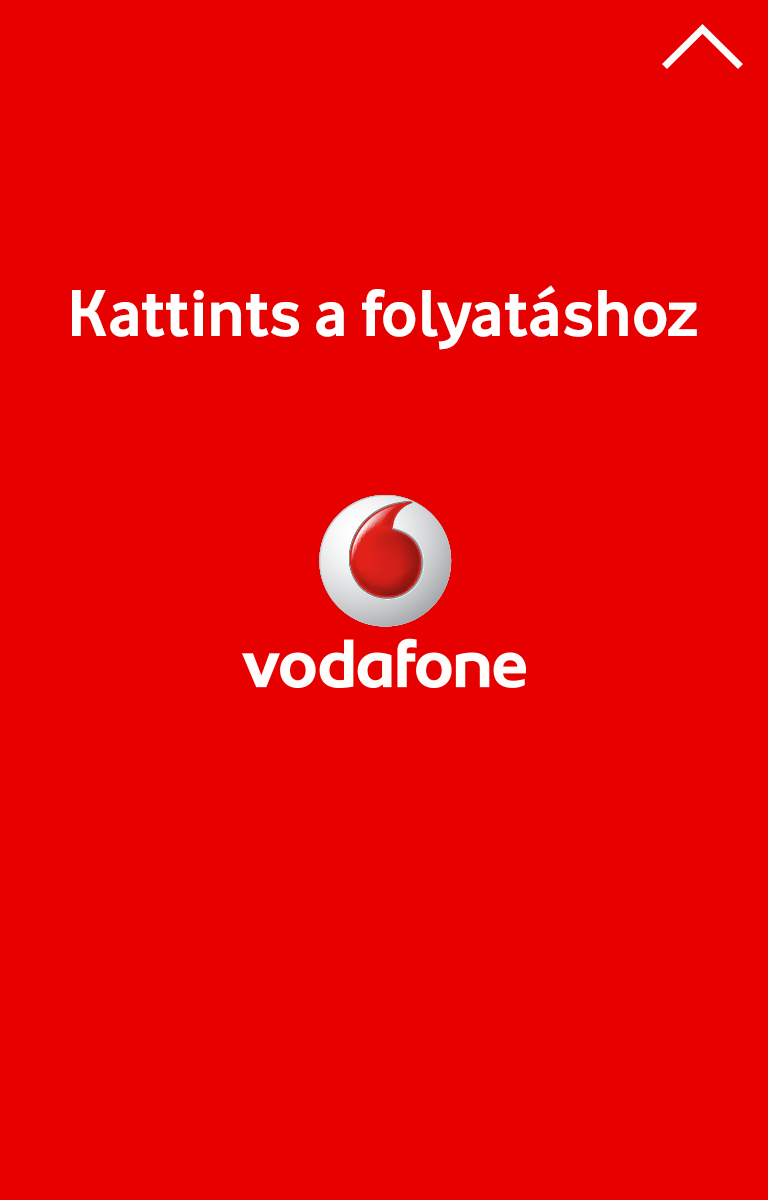
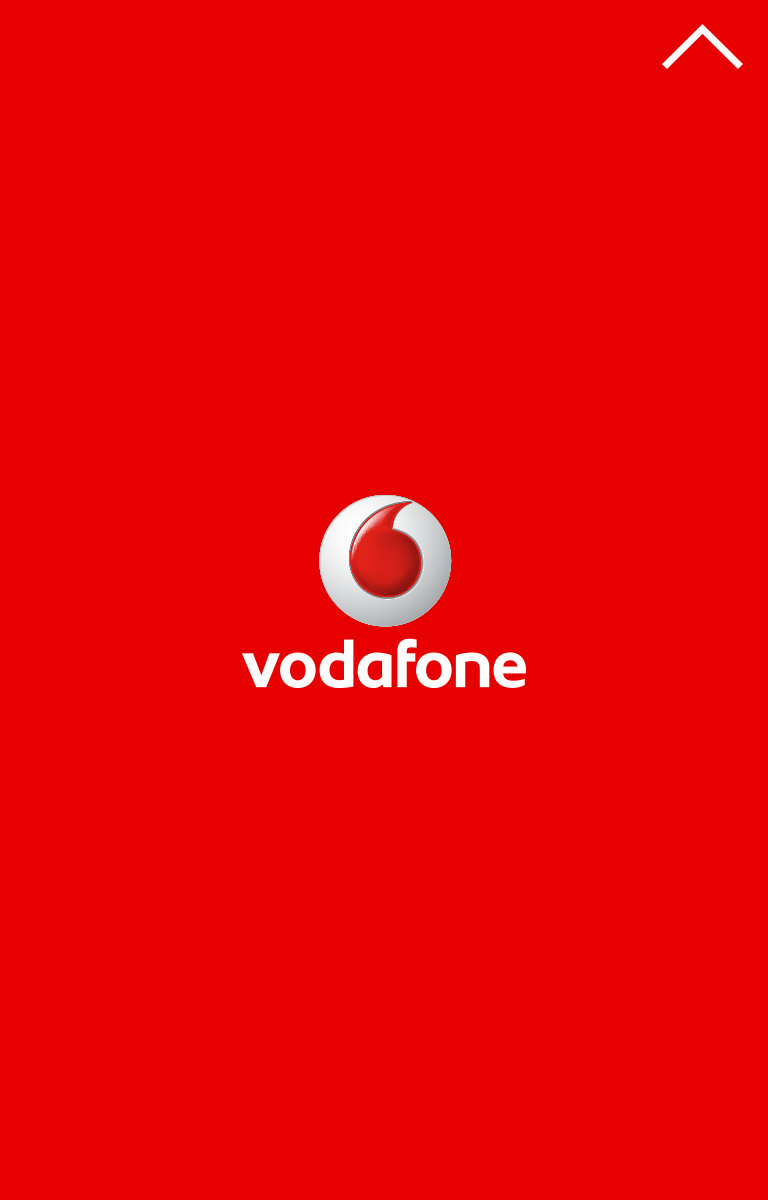
working on standalone, but these are production ready

Changed region(s): [[0.0938, 0.2158, 0.9062, 0.3083]]

diff --git a/insurance/scripts/richMedia/exp_build.2.js b/insurance/scripts/richMedia/exp_build.2.js
@@ -4,9 +4,13 @@
 
 var Exp_Shell = function(){
 
-	var expandable = isStandalone;
-	console.log("expandable:" + expandable);
 
+
+	var ADMAXIM_BANNER_W = 320;
+	var ADMAXIM_BANNER_H = 50;
+
+	var ADMAXIM_RICHMEDIA_W = 320;
+	var ADMAXIM_RICHMEDIA_H = 500;
 
 	var adBannerW = (ADMAXIM_BannerWidth != undefined) ? ADMAXIM_BannerWidth : ADMAXIM_BANNER_W;
 	var adBannerH = (ADMAXIM_BannerHeight != undefined) ? ADMAXIM_BannerHeight : ADMAXIM_BANNER_H;
@@ -15,10 +19,21 @@ var Exp_Shell = function(){
 	var adExpandH = ADMAXIM_RICHMEDIA_H;
 
 
-	var clickUrl = (ADMAXIM_clickUrl != undefined) ? ADMAXIM_clickUrl  : " ";
-	var clickId = (ADMAXIM_clickId != undefined) ? ADMAXIM_clickId  : " ";
+	var clickUrl = (ADMAXIM_clickUrl != undefined) ? ADMAXIM_clickUrl  : "";
+	var clickId = (ADMAXIM_clickId != undefined) ? ADMAXIM_clickId  : "";
 
 	var appId = (ADMAXIM_appId != undefined) ? ADMAXIM_appId : "";
+
+
+	var standalone = getUrlVar('standalone');
+
+	var expanded = (typeof standalone_from_url != "undefined" && standalone_from_url === "yes" || typeof standalone != "undefined" && standalone === "yes") ? true : false;
+
+
+	function getUrlVar(key){
+		var result = new RegExp(key + "=([^&]*)", "i").exec(window.location.search);
+		return (result && unescape(result[1]) || undefined);
+	}	
 
 
 	//var assetRoot = (ADMAXIM_assetRoot != undefined) ? ADMAXIM_assetRoot : undefined;
@@ -32,7 +47,7 @@ var Exp_Shell = function(){
 	}
 	console.log("assetUrl:" + assetUrl);
 
-	var iframeUrl = assetUrl + "scripts/richMedia/expanded.html?clickid=" + clickId + "&appid=" + appId;
+	var iframeUrl = assetUrl + "scripts/richMedia/expanded.html?clickid=" + clickId + "&appid=" + appId + "&standalone=" + standalone;
 
 
 	var adBanner = (ADMAXIM_adBanner != undefined) ? ADMAXIM_adBanner : "scripts/richMedia/media/vodafoneinsurancebanner.gif";
@@ -44,7 +59,7 @@ var Exp_Shell = function(){
 	var adLoaded = false;
 
 	var bannerStr = "";
-	if (!expandable) bannerStr += "<img id=\"adBanner\" onclick='exp_shell.bannerClick()' src=\""+adBanner+"\" style=\"display:block; width:"+adBannerW+"px; height:"+adBannerH+"px; \" \/>";
+	if (!expanded) bannerStr += "<img id=\"adBanner\" onclick='exp_shell.bannerClick()' src=\""+adBanner+"\" style=\"display:block; width:"+adBannerW+"px; height:"+adBannerH+"px; \" \/>";
 	bannerStr += "<img id=\"AdMaximTrack\" style=\"display:block; margin:-1px 0 0 -1px; padding:0; width:1px; height:1px\" \/>";
 	var iframeStr = "<iframe id='adFrame' scrolling='no' src='' width='0' height='0' style='border:none; position:absolute; top:0; left:0;'></iframe>";
 	var expandedExp;
@@ -74,7 +89,7 @@ var Exp_Shell = function(){
 
 
 		
-		if (!expandable){
+		if (!expanded){
 			var closeBtn = document.createElement('div');
 			closeBtn.setAttribute('onclick', 'exp_shell.closeBtnClick()');
 			closeBtn.style.width = adBannerH + "px";

diff --git a/simonly/scripts/richMedia/exp_build.2.js b/simonly/scripts/richMedia/exp_build.2.js
@@ -4,9 +4,13 @@
 
 var Exp_Shell = function(){
 
-	var expandable = isStandalone;
-	console.log("expandable:" + expandable);
 
+
+	var ADMAXIM_BANNER_W = 320;
+	var ADMAXIM_BANNER_H = 50;
+
+	var ADMAXIM_RICHMEDIA_W = 320;
+	var ADMAXIM_RICHMEDIA_H = 500;
 
 	var adBannerW = (ADMAXIM_BannerWidth != undefined) ? ADMAXIM_BannerWidth : ADMAXIM_BANNER_W;
 	var adBannerH = (ADMAXIM_BannerHeight != undefined) ? ADMAXIM_BannerHeight : ADMAXIM_BANNER_H;
@@ -15,10 +19,21 @@ var Exp_Shell = function(){
 	var adExpandH = ADMAXIM_RICHMEDIA_H;
 
 
-	var clickUrl = (ADMAXIM_clickUrl != undefined) ? ADMAXIM_clickUrl  : " ";
-	var clickId = (ADMAXIM_clickId != undefined) ? ADMAXIM_clickId  : " ";
+	var clickUrl = (ADMAXIM_clickUrl != undefined) ? ADMAXIM_clickUrl  : "";
+	var clickId = (ADMAXIM_clickId != undefined) ? ADMAXIM_clickId  : "";
 
 	var appId = (ADMAXIM_appId != undefined) ? ADMAXIM_appId : "";
+
+
+	var standalone = getUrlVar('standalone');
+
+	var expanded = (typeof standalone_from_url != "undefined" && standalone_from_url === "yes" || typeof standalone != "undefined" && standalone === "yes") ? true : false;
+
+
+	function getUrlVar(key){
+		var result = new RegExp(key + "=([^&]*)", "i").exec(window.location.search);
+		return (result && unescape(result[1]) || undefined);
+	}	
 
 
 	//var assetRoot = (ADMAXIM_assetRoot != undefined) ? ADMAXIM_assetRoot : undefined;
@@ -32,7 +47,7 @@ var Exp_Shell = function(){
 	}
 	console.log("assetUrl:" + assetUrl);
 
-	var iframeUrl = assetUrl + "scripts/richMedia/expanded.html?clickid=" + clickId + "&appid=" + appId;
+	var iframeUrl = assetUrl + "scripts/richMedia/expanded.html?clickid=" + clickId + "&appid=" + appId + "&standalone=" + standalone;
 
 
 	var adBanner = (ADMAXIM_adBanner != undefined) ? ADMAXIM_adBanner : "scripts/richMedia/media/vodafonesimonlybanner.gif";
@@ -44,7 +59,7 @@ var Exp_Shell = function(){
 	var adLoaded = false;
 
 	var bannerStr = "";
-	if (!expandable) bannerStr += "<img id=\"adBanner\" onclick='exp_shell.bannerClick()' src=\""+adBanner+"\" style=\"display:block; width:"+adBannerW+"px; height:"+adBannerH+"px; \" \/>";
+	if (!expanded) bannerStr += "<img id=\"adBanner\" onclick='exp_shell.bannerClick()' src=\""+adBanner+"\" style=\"display:block; width:"+adBannerW+"px; height:"+adBannerH+"px; \" \/>";
 	bannerStr += "<img id=\"AdMaximTrack\" style=\"display:block; margin:-1px 0 0 -1px; padding:0; width:1px; height:1px\" \/>";
 	var iframeStr = "<iframe id='adFrame' scrolling='no' src='' width='0' height='0' style='border:none; position:absolute; top:0; left:0;'></iframe>";
 	var expandedExp;
@@ -74,7 +89,7 @@ var Exp_Shell = function(){
 
 
 		
-		if (!expandable){
+		if (!expanded){
 			var closeBtn = document.createElement('div');
 			closeBtn.setAttribute('onclick', 'exp_shell.closeBtnClick()');
 			closeBtn.style.width = adBannerH + "px";

diff --git a/simonly/scripts/richMedia/admaxim_ad_exp.js b/simonly/scripts/richMedia/admaxim_ad_exp.js
@@ -118,6 +118,8 @@ var AdMaximAdExperience = function() {
 
 	var isPageLoaded = [];	
 	var youtubePlayers = [];
+
+	var standalone = false;
 	
 
 	this.adConfig = function(){
@@ -305,7 +307,7 @@ var AdMaximAdExperience = function() {
 		}
 		
 		//if (expand === 'yes'){
-		//	ad_wrapperTop = 0;
+			//ad_wrapperTop = 0;
 		//} else {
 			ad_wrapperTop = -viewableHeight;
 		//}
@@ -913,8 +915,20 @@ var AdMaximAdExperience = function() {
 			//loadRestOfBackgrounds();
 			//firstRun = false;
 			//that.trackEvent("firstexpand", "firstexpand2");
-			dropBanner();
+			console.log('isStandalone isStandaloneisStandaloneisStandaloneisStandalone ' + isStandalone);
+			if (typeof isStandalone != "undefined" && isStandalone){
+				$('#ad_wrapper').css({'top':'0px'});
+				that.trackEvent("firstexpand", "firstexpand2");
+				//console.log('YES OH YES');
+			} else {
+				//console.log('NONOONONON OH NO');
+				dropBanner();
+			}
 		}
+
+
+
+
 		
 		setUpVideoTracking();
 		setUpAudioTracking();
@@ -1344,7 +1358,9 @@ var AdMaximAdExperience = function() {
 
 
 		} else {
-			console.log("NO TRACK " + eventAction);
+			console.log("NOT TRACKING " + eventAction);
+
+			//console.log("NO track - cat:" + eventCatigory + ", label:" + eventLabel + ", action:" + eventAction);
 
 		}
 

diff --git a/simonly/scripts/richMedia/game.js b/simonly/scripts/richMedia/game.js
@@ -99,6 +99,9 @@ var AM_Game = function(){
 	}
 	
 	function setUpGame(e){
+
+		//createjs.Touch.enable(stage);
+
 		stage.removeChild(startBtn);
 		preloadAudio(e);
 
@@ -188,7 +191,7 @@ var AM_Game = function(){
     function handleProgress(event) {
     	//console.log(event.loaded * 100);
         loadBar.scaleX = event.loaded;
- 		loadTxt.text = "Loading " + Math.round(event.loaded * 100) + "%";
+ 		loadTxt.text =  "Loading" + Math.round(event.loaded * 100) + "%";
         
         if (event.loaded === 1) {
          	loadBarHolder.visible = false;
@@ -472,7 +475,7 @@ var AM_Game = function(){
 		audioTimer = setInterval(function(){monitorTrack(effectName);}, 1);
 	}
 			
-	function preloadAudio(userEvent){
+	function preloadAudio(){
 		if (!audioLoaded){
 			audioLoaded = true;
 			for (var i = 0; i < TRACKS.length; i++){
@@ -496,8 +499,8 @@ var AM_Game = function(){
 				//imgLib['loading'].holder.visible = false;
 				//console.log(TRACKS);
 			},true);
-			
-			audioTag.play();
+			$('#track1').get(0).play();
+			//audioTag.play();
 			audioTag.pause();
 		} else {
 			//imgLib['loading'].holder.visible = false;

diff --git a/insurance/scripts/richMedia/admaxim_ad_exp.js b/insurance/scripts/richMedia/admaxim_ad_exp.js
@@ -118,6 +118,8 @@ var AdMaximAdExperience = function() {
 
 	var isPageLoaded = [];	
 	var youtubePlayers = [];
+
+	var standalone = false;
 	
 
 	this.adConfig = function(){
@@ -913,8 +915,20 @@ var AdMaximAdExperience = function() {
 			//loadRestOfBackgrounds();
 			//firstRun = false;
 			//that.trackEvent("firstexpand", "firstexpand2");
-			dropBanner();
+			console.log('isStandalone isStandaloneisStandaloneisStandaloneisStandalone ' + isStandalone);
+			if (typeof isStandalone != "undefined" && isStandalone){
+				$('#ad_wrapper').css({'top':'0px'});
+				that.trackEvent("firstexpand", "firstexpand2");
+				//console.log('YES OH YES');
+			} else {
+				//console.log('NONOONONON OH NO');
+				dropBanner();
+			}
 		}
+
+
+
+
 		
 		setUpVideoTracking();
 		setUpAudioTracking();

diff --git a/insurance/index.html b/insurance/index.html
@@ -21,11 +21,6 @@
 
 
 
-		var ADMAXIM_BANNER_W = 320;
-		var ADMAXIM_BANNER_H = 50;
-
-		var ADMAXIM_RICHMEDIA_W = 320;
-		var ADMAXIM_RICHMEDIA_H = 500;
 
 
 
@@ -38,15 +33,6 @@
 
 
 
-
-		var standalone = getUrlVar('standalone');
-
-		var isStandalone = (typeof standalone_from_url != "undefined" && standalone_from_url === "yes" || typeof standalone != "undefined" && standalone === "yes") ? true : false;
-		
-		function getUrlVar(key){
-			var result = new RegExp(key + "=([^&]*)", "i").exec(window.location.search);
-			return (result && unescape(result[1]) || undefined);
-		}	
 	</script>
     <script type="text/javascript" src="scripts/richMedia/exp.js"></script>
     <div id="AdMaximBanner" style="position:absolute; top:0px; left:0px"></div>

diff --git a/insurance/scripts/richMedia/expanded.html b/insurance/scripts/richMedia/expanded.html
@@ -22,6 +22,9 @@
 		}, 100);
 	});
 
+	var standalone_from_url = getUrlVar('standalone');
+	var isStandalone = (typeof standalone_from_url != "undefined" && standalone_from_url === "yes") ? true : false;
+
 	var clickid = getUrlVar('clickid');
 	var appid = getUrlVar('appid');
 
@@ -32,6 +35,7 @@
 		var result = new RegExp(key + "=([^&]*)", "i").exec(window.location.search);
 		return (result && unescape(result[1]) || undefined);
 	}	
+
 </script>
 <div id="bg" style="position:absolute; top:0px; left:0px; width:320px; height:420px; background:url(media/loading5.gif) 10px 0px"></div>
 

diff --git a/simonly/scripts/richMedia/expanded.html b/simonly/scripts/richMedia/expanded.html
@@ -22,6 +22,9 @@
 		}, 100);
 	});
 
+	var standalone_from_url = getUrlVar('standalone');
+	var isStandalone = (typeof standalone_from_url != "undefined" && standalone_from_url === "yes") ? true : false;
+
 	var clickid = getUrlVar('clickid');
 	var appid = getUrlVar('appid');
 
@@ -32,6 +35,7 @@
 		var result = new RegExp(key + "=([^&]*)", "i").exec(window.location.search);
 		return (result && unescape(result[1]) || undefined);
 	}	
+
 </script>
 <div id="bg" style="position:absolute; top:0px; left:0px; width:320px; height:420px; background:url(media/loading5.gif) 10px 0px"></div>
 

diff --git a/simonly/scripts/richMedia/data.js b/simonly/scripts/richMedia/data.js
@@ -19,7 +19,7 @@ var admaxim_ad =
 				 	'title':'page1',
 				 	'track':'page_1_view',
 					'track2'	: ' ',
-				 	'background':'media/game/bg_start3.png',
+				 	'background':'media/game/bg_start2.png',
 					"html"   	:
 					[
 						{
